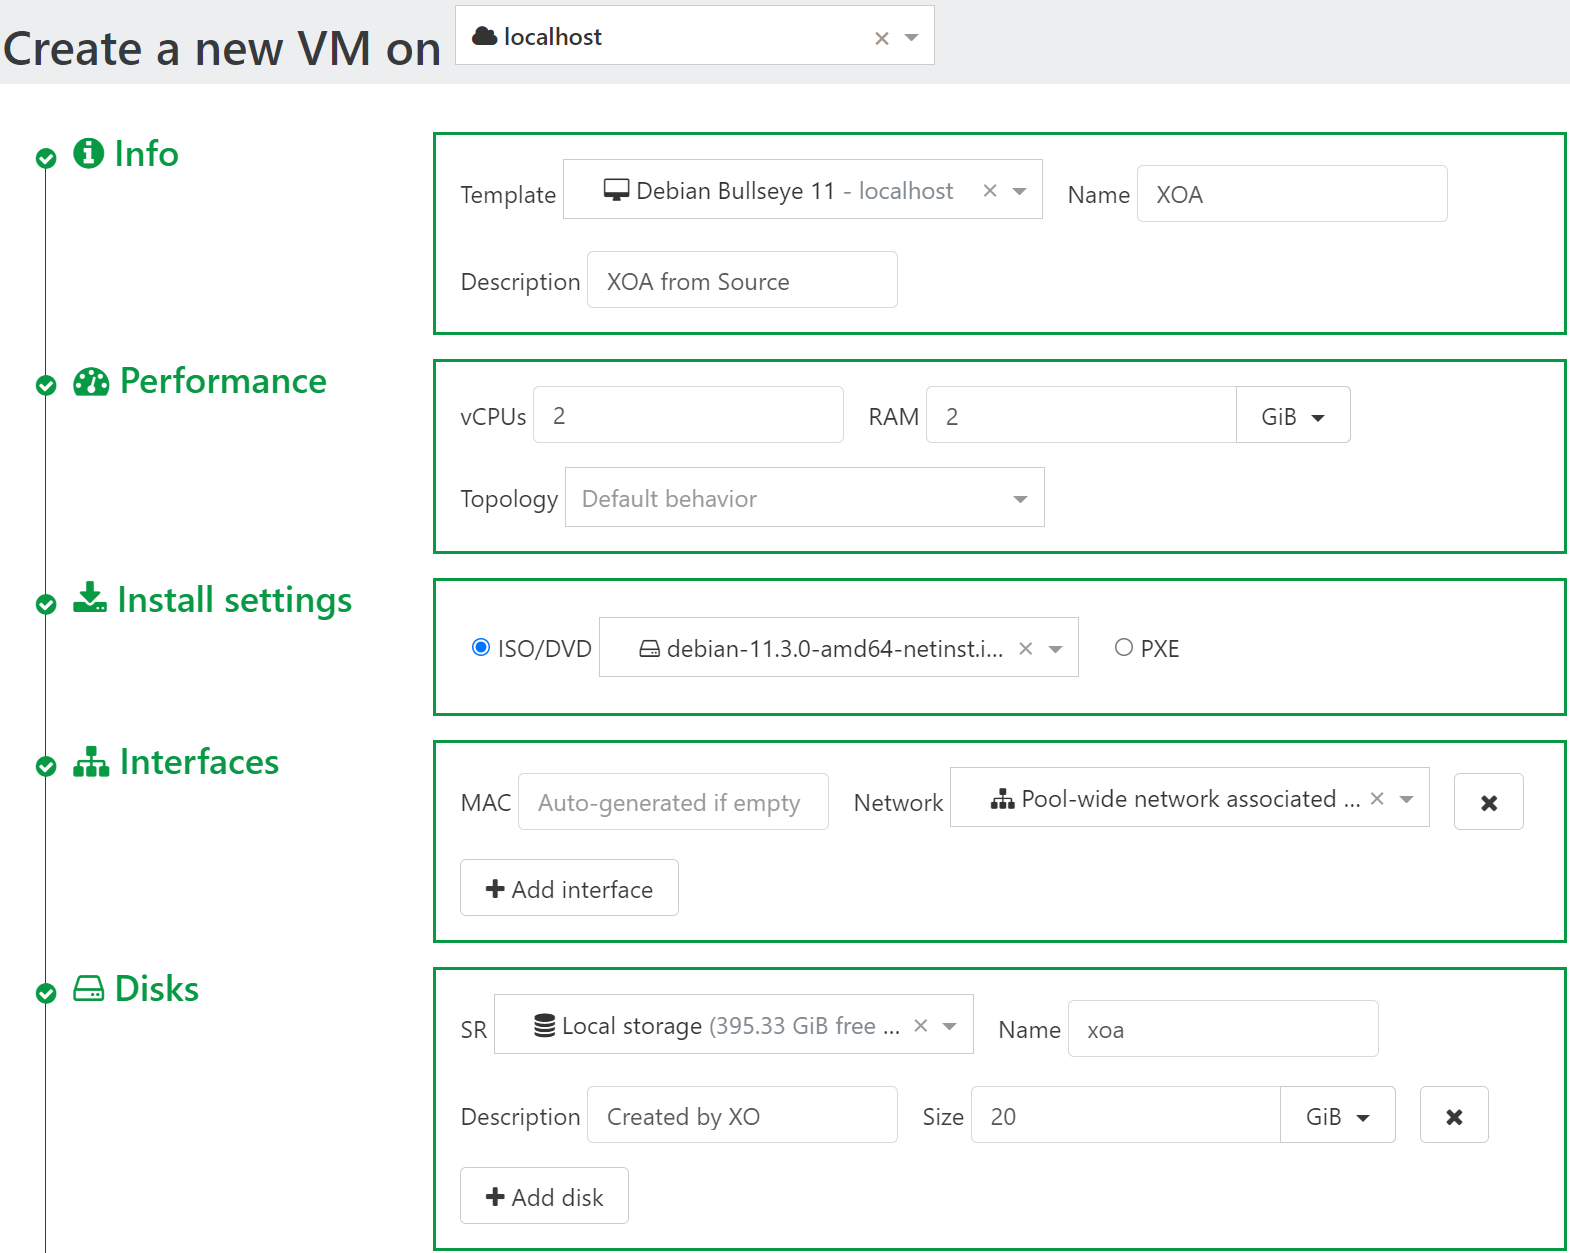
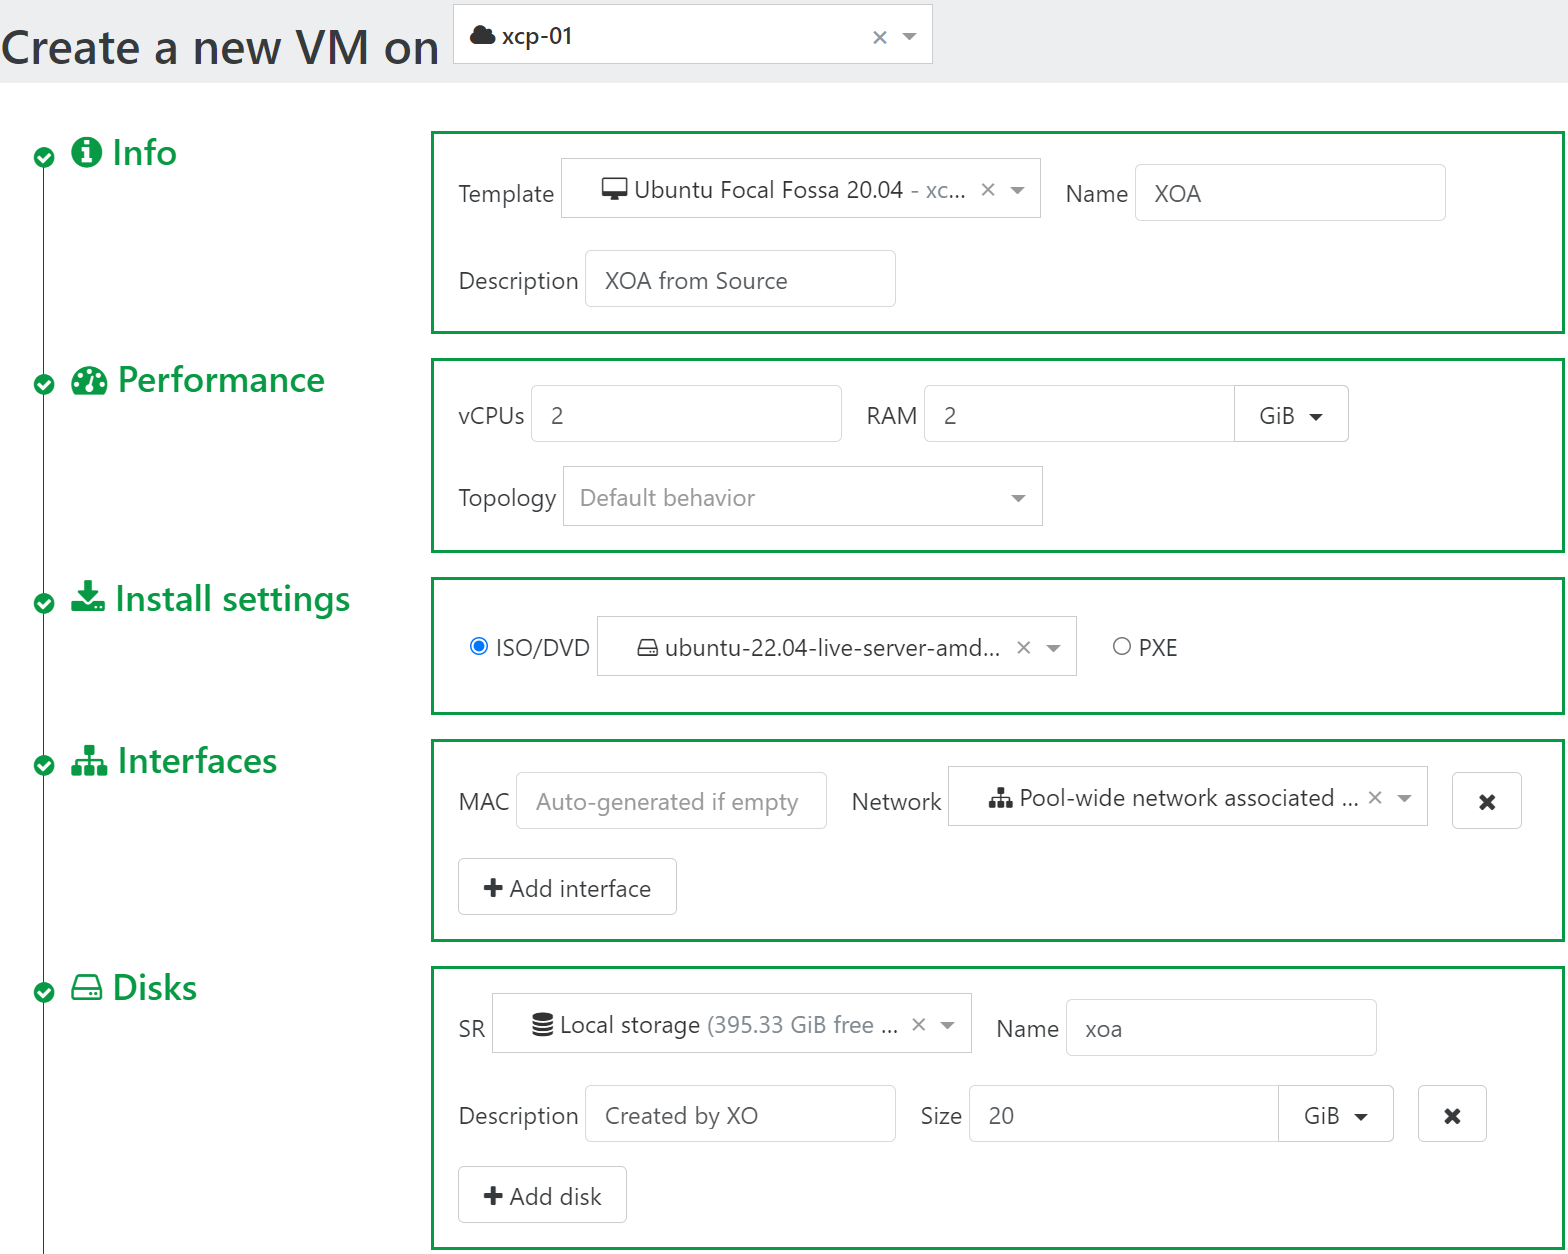
finish up xoa docs

diff --git a/docs/virtualization/1-xcp-ng/2-xoa.md b/docs/virtualization/1-xcp-ng/2-xoa.md
@@ -1,9 +1,15 @@
 # XOA
 
-## Xen Orchestra Appliance
+You can choose between 3 Methods to install XOA.
+
+- **Quick Deploy**, which spins a VM with limited available features
+- **Fast/Easy**, which downloads a pre-created VM that is build from source code and includes all features
+- **From source**, which you manually download and install the OS and then run the installer to build XOA, this also includes all features
+
+## Xen Orchestra Appliance (Quick Deploy)
 
 Deploying XOA the first time is very easy.
-Grab the IP of your xcp-ng host, and visit `https://<xpc-ng-host-ip>`
+Grab the IP of your xcp-ng host, and visit `https://<xpc.ng.host.ip>`
 
 You will see a webpage like below
 
@@ -37,18 +43,50 @@ Default Username/Password is:
 Username: `admin@admin.net`
 Password: `admin`
 
+## XOA VM Import (Fast/Easy)
 
-## XOA from source
+- SSH to your `xcp-ng` host
+- Run the following command
+
+  ```shell
+  sudo bash -c "$(curl -s https://raw.githubusercontent.com/ronivay/XenOrchestraInstallerUpdater/master/xo-vm-import.sh)"
+  ```
+
+- Follow the on-screen instructions
+- Visit `https://<ip.you-entered-on.setup>`
+![xoa-easy](img/xoa-easy.png)
+- Done
+
+You might want to make this VM auto start when xcp-ng host boots.
+Also protect from accidental deletion or shutdown.
+
+Navigate to `🏠Home` > `🖥VMs`
+
+- Click `xo-ce`
+- Click `Advanced`
+- Toggle on `Auto power on`
+- Toggle on `Protect from accidental deletion`
+- Toggle on `Protect from accidental shutdown`
+![xoa-auto-power](img/xoa-auto-power.png)
+
+## XOA (From source)
 
 Installing XOA from source gives you all the pro features available.
 
 ### Download the ISO
 
-- Visit Debian's web [page](https://www.debian.org/CD/netinst/)
-- Right click `amd64` under `netinst CD image` and click `Copy link address`
+- Visit Ubuntu's web [page](https://ubuntu.com/download/server)
+- Select `Option 2 - Manual server installation`
+- Click <kbd>Download Ubuntu Server 22.04 LTS</kbd>
+  ![xoa-ubuntu-download1](img/xoa-ubuntu-download1.png)
+- Right click `download now` under `Thank you` and click `Copy link address`
+  ![xoa-ubuntu-download2](img/xoa-ubuntu-download2.png)
 - SSH to your `xcp-ng` host
-- Run `mkdir -p /isos && cd /isos`
-- Run `curl https://cdimage.debian.org/debian-cd/current/amd64/iso-cd/debian-11.3.0-amd64-netinst.iso --output debian-11.3.0-amd64-netinst.iso`
+
+  ```shell
+  mkdir -p /isos && cd /isos
+  curl https://releases.ubuntu.com/22.04/ubuntu-22.04-live-server-amd64.iso --output ubuntu-22.04-live-server-amd64.iso
+  ```
 
 ![xoa-source-mkdir-download-img](img/xoa-source-mkdir-download-img.png)
 
@@ -67,12 +105,12 @@ Navigate to `➕New` > `💿Storage`
 
 ### Create VM
 
-Navigate to `➕New > `🖥VMs`
+Navigate to `➕New` > `🖥VMs`
 
 - Click <kbd>New VM</kbd>
 - On the top select a pool
 - **Info**
-  - Template: `Debian Bullseye 11`
+  - Template: `Ubuntu Focal Fossa 20.04`
   - Name: `XOA`
   - Description: `XOA from Source`
 - **Performance**
@@ -95,16 +133,165 @@ Navigate to `➕New > `🖥VMs`
 
 Navigate to `🏠Home` > `🖥VMs`
 
-- Click the <kbd>✖</kbd> on the filter bar
-- Click the stopped `XOA` VM
-- Click <kbd>▶</kbd> to start the VM
-- Follow the on-screen instructions to install Debian
+- Click the `XOA` VM (with descriptions `XOA from Source`)
+- Navigate to `Console`
+- Follow the on-screen instructions to install `Ubuntu`
 
 ### Build XOA from source
 
-TODO:
+For this method, to make it easier, follow first the `Quick Deploy` method, then come back here.
+
+Navigate to `🏠Home` > `🖥VMs`
+
+- Click the `XOA` VM (with descriptions `XOA from Source`)
+- Navigate to `Console`
+- Run the following:
+
+```shell
+# Install git
+sudo apt update
+sudo apt install git
+
+# Clone the XOA Installer
+git clone https://github.com/ronivay/XenOrchestraInstallerUpdater.git
+cd XenOrchestraInstallerUpdater/
+
+# Copy example config to a new file named xo-install.cfg
+cp sample.xo-install.cfg xo-install.cfg
+
+# Edit the config file (below you will find my sample)
+nano xo-install.cfg
+
+# Run the installation script (This will take a while)
+sudo ./xo-install.sh --install
+```
+
+![xoa-git-clone](img/xoa-git-clone.png)
+![xoa-running-install](img/xoa-running-install.png)
+![xoa-finishing-install](img/xoa-finishing-install.png)
+
+After the installer is finished, visit `https://<the.ip.ofyour.vm>`
+
+Default credentials are:
+
+- Username: `admin@admin.net`
+- Password: `admin`
+
+Now you are ready for the next step `Add server`
+
+> This is how my xo-install.cfg looks like.
+> With this setup it will auto generate self signed certs and run on https
+
+```shell
+# Optional user that runs the service
+# default: root
+# no effect to Xen Orchestra proxy
+#XOUSER=
+
+# Optional parameter if running as non privileged user to use sudo when mounting/umounting shares inside Xen Orchestra
+# no effect if XOUSER is root
+# options true/false
+# no effect to Xen Orchestra proxy
+#USESUDO=false
+
+# Optional parameter to generate sudoers config when missing completely if USESUDO is set to true
+# no effect if XOUSER is root
+# options true/false
+# no effect to Xen Orchestra proxy
+#GENSUDO=false
+
+# Port number where xen-orchestra service is bound
+# no effect to Xen Orchestra proxy
+PORT="443"
+
+# Base dir for installation and future updates
+INSTALLDIR="/opt/xo"
+
+# Script will update itself if there's a newer version available. This assumes that script inside a git directory and remote is ronivay/XenOrchestraInstallerUpdater
+# options: true/false
+SELFUPGRADE=true
+
+# Xen Orchestra configuration file is stored in XOUSER's home directory ($HOME/.config/xo-server/config.toml) and by default will be overwritten with every update done by this script.
+# You may disable this if you edit configuration by hand and don't want an update to overwrite it. Note that some of the options defined here won't be applied even if changed if this is set to false.
+# options: true/false
+# no effect to Xen Orchestra proxy
+CONFIGUPDATE=true
+
+# Location of Xen Orchestra repository where source code is fetched
+REPOSITORY="https://github.com/vatesfr/xen-orchestra"
+
+# Git branch, tag (append tags/ before the tag name) or individual commit where xen-orchestra sources are fetched.
+BRANCH="master"
+
+# Installation log path
+# default: ./logs
+#LOGPATH=
+
+# Only one PLUGINS variable can be used at a time. Comment out the other one if you change these below. Comment out both if you don't want any plugins to be installed.
+
+# Comma separated list of plugins to be installed, check README for more information. Note that 3rd party plugins defined below should be listed here as well with their name eq. repo1,repo2 etc.
+#PLUGINS="xo-server-transport-email,xo-server-usage-report,xo-server-perf-alert"
+
+# (default) all plugins will be installed, including possible 3rd-party plugins if defined.
+PLUGINS="all"
+
+# Additional 3rd-party plugins to fetch. Keep the .git suffix.
+#ADDITIONAL_PLUGINS="https://github.com/user/repo.git,https://github.com/user/repo2.git"
+
+# NodeJS and Yarn are automatically updated when running update/install. Can be disabled but not recommended (installation might fail because of too old node.js or yarn)
+# Note that if nodejs is updated when script's update feature is used, it might not be possible to use rollback option anymore without manually downgrading nodejs version to previous one
+# options: true/false
+AUTOUPDATE="true"
+
+# enable/disable OS check. Installation refuses to run on any other than supported OS versions if this is enabled. Can be disabled for experimental purposes.
+# options: true/false
+OS_CHECK="true"
+
+# enable/disable architecture check. Installation refuses to run on any other than x86_64 if enabled. Can be disabled for experimental purposes.
+# options: true/false
+ARCH_CHECK="true"
+
+# Define the number of previous successful installations you want to keep. Needs to be at least 1. Determines how far the rollback feature can be used.
+PRESERVE="3"
+
+# certificate settings have no effect to Xen Orchestra proxy, it'll generate it's own self-signed certificates always
+
+# Location of pem certificate/key files. Installation will automatically configure HTTPS if these are defined. Remember to change PORT variable as well.
+PATH_TO_HTTPS_CERT=$INSTALLDIR/xo.crt
+PATH_TO_HTTPS_KEY=$INSTALLDIR/xo.key
+
+# location of CA certificate file.
+# define this if your host certificate is issued by a custom CA and you want XO to trust it.
+# file can contain multiple certificates
+#PATH_TO_HOST_CA=
+
+# If set to true together with cert/key paths, defined pem key/certificate will be created if neither exists.
+# options: true/false
+AUTOCERT="true"
+
+# If set to true, this will install the rpm/deb repositories necessary for the Xen Orchestra install.
+# If set to false, these repositories will not be installed. Also automatic nodejs upgrade will be disabled.
+# Note that installation will fail if all needed packages aren't available from configured repositories. See README for list of packages.
+# options: true/false
+# default: true
+#INSTALL_REPOS="true"
+```
+
+## Add server
+
+After you login
+
+- Click <kbd>☁Add server</kbd>.
+![xoa-welcome](img/xoa-welcome.png)
+- Fill your xcp-ng host's info
+- Don't forget to toggle the `Allow Unauthorized Certificates` button, unless you used valid certificates
+![xoa-add-server](img/xoa-add-server.png)
+- Click <kbd>💾Connect</kbd>
+![xoa-connected-server](img/xoa-connected-server.png)
 
 ## Cleanup
+
+This step is only needed if you followed the `XOA (From source)` method
 
 Navigate to `🏠Home` > `🖥VMs`
 
